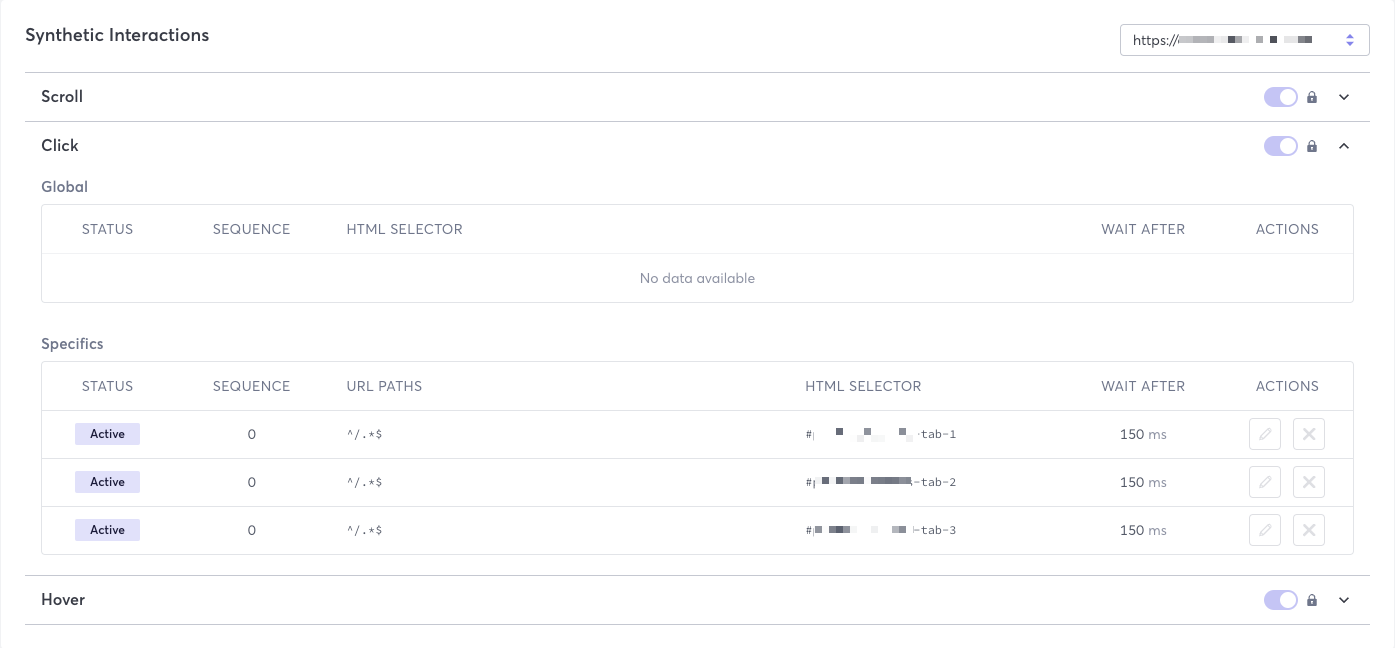
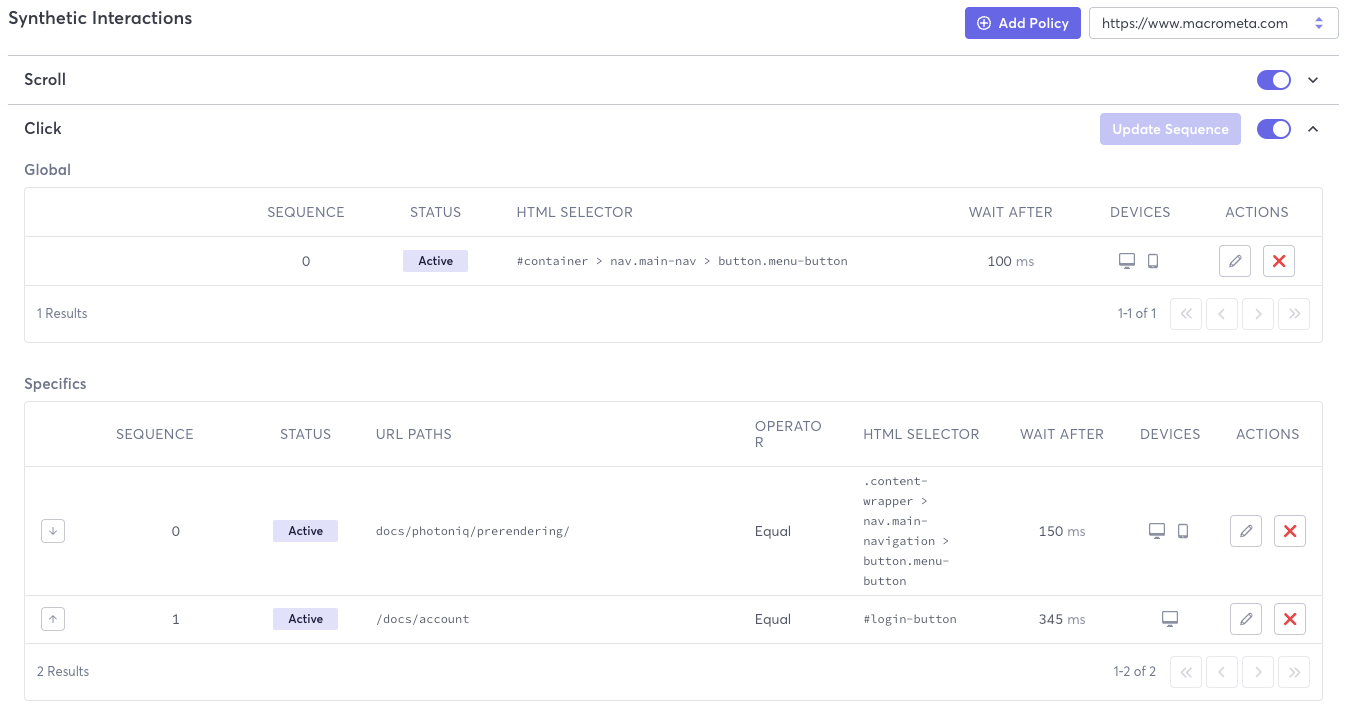
renamed files

diff --git a/docs/photoniq/prerendering/synthetic-interactions/manage-click-interactions.md b/docs/photoniq/prerendering/synthetic-interactions/manage-click-interactions.md
@@ -1,15 +1,15 @@
 ---
 sidebar_position: 30
-title: Manage Click Interactions
+title: Manage Click Interaction Policies
 ---
-
 import Tabs from '@theme/Tabs';
 import TabItem from '@theme/TabItem';
 
-You have several options for viewing Prerendering synthetic interactions, either aggregated or per origin.
+You have several options for managing Prerendering click synthetic interaction policies.
 
-- **Synthetic Interactions tab** - You can view synthetic interactions for an origin on the Synthetic Interactions tab in the web console.
-- **REST API** - Macrometa provides several API calls that allow you to view metrics for an origin. You can also sort and set any time frame that you need.
+- **Synthetic Interactions tab** - You can manage synthetic click interaction policies for an origin on the Synthetic Interactions tab in the web console.
+  ![Prerendering Synthetic Interactions Tab - Click](/img/prerendering/synthetic-interactions-click.png)
+- **REST API** - Macrometa provides several API calls that allow you to manage synthetic click interaction policies.
 
 ## View Synthetic Interactions
 

diff --git a/docs/photoniq/prerendering/synthetic-interactions/enable-disable-policies.md b/docs/photoniq/prerendering/synthetic-interactions/enable-disable-policies.md
@@ -1,6 +1,6 @@
 ---
 sidebar_position: 80
-title: Enable/Disable Synthetic Interaction Policies
+title: Enable/Disable Policies
 ---
 import Tabs from '@theme/Tabs';
 import TabItem from '@theme/TabItem';
